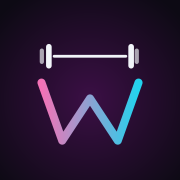
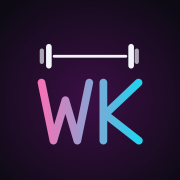
Icone com WK no lugar do W
Claude-Session: https://claude.ai/code/session_012kAGZWakjHZoWeyb15ZakL

Changed region(s): [[0.1944, 0.4167, 0.8056, 0.8056], [0.75, 0.4167, 0.7778, 0.4444], [0.2222, 0.4167, 0.25, 0.4444]]

diff --git a/sw.js b/sw.js
@@ -1,4 +1,4 @@
-const V='wikagym-v2';
+const V='wikagym-v3';
 const ARQ=['./','index.html','manifest.webmanifest','icon.svg','icon-180.png','icon-192.png','icon-512.png'];
 self.addEventListener('install',e=>{e.waitUntil(caches.open(V).then(c=>c.addAll(ARQ)).then(()=>self.skipWaiting()));});
 self.addEventListener('activate',e=>{e.waitUntil(caches.keys().then(ks=>Promise.all(ks.filter(k=>k!==V).map(k=>caches.delete(k)))).then(()=>self.clients.claim()));});
